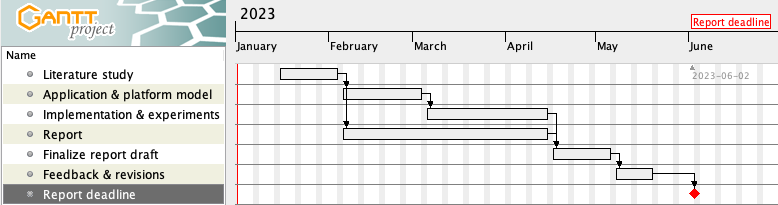
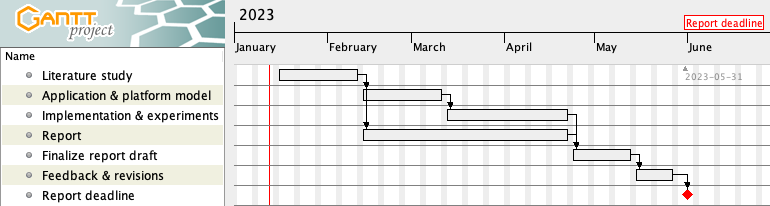
v 0.4

diff --git a/plan/plan.tex b/plan/plan.tex
@@ -23,7 +23,7 @@
 \usepackage{fancyhdr}
 \pagestyle{fancy}
 \fancyhf{}
-\fancyhead[L]{\emph{L. Karlsson; version 0.3}}
+\fancyhead[L]{\emph{L. Karlsson; version 0.4}}
 \fancyhead[R]{\emph{\leftmark}}
 \fancyfoot[C]{\thepage}
 
@@ -31,7 +31,7 @@
 
 \title{Thesis Project Plan\\SF250X}
 \author{Ludwig Karlsson\\ludwigka@kth.se}
-\date{2022-12-23}
+\date{2023-01-12}
 
 \begin{document}
 \maketitle
@@ -45,28 +45,28 @@ When designing or choosing a system (for example an MPSoC) for a particular appl
 This project is concerned with an application at Saab of DSE on a Xilinx MPSoC with CPU, GPU, and reconfigurable FPGA resources. The use case concerns a dynamic scenario where different processes with different priorities need to be scheduled and run on the chip. The processes can run on some combination of the chip's resources (eg. a certain process may be able to run on a CPU core or on the FPGA), and the ultimate goal is to determine a way to schedule processes on the available resources including possible reconfigurations of the FPGA that results in performance that is as close to optimal as possible.
 
 \subsection{Mathematical/Numerical Aspects}
-Finding the optimal solution to the design-space problem is an NP-complete problem. Historically, computational DSE has been limited by computational resources, and approaches have required limiting assumptions or have been largely heuristical. These methods tend to give solutions that are good but not optimal, and they can sometimes be improved considerably. Kathrin Rosvall and Rodolfo Jordão have as part of Ingo Sander's research group showcased an approach that based on a discrete model of the system and computational problem utilizes Constraint Programming (CP) and a combination of heuristics and search that limits the design space without removing any feasible solutions. This makes it possible to obtain a feasible solution fairly quickly, and then eventually prove optimality if the problem is small enough [2]. This project aims to build on these methods by extending the IDeSyDe tool [3] within the ForSyDe framework [4]. The key focus will be to investigate Saab's problem with the current CP approach as well as with other solvers and meta-heuristics in order to see what method works best for this problem.
+Finding the optimal solution to the design-space problem is an NP-complete problem. Historically, computational DSE has been limited by computational resources, and approaches have required limiting assumptions or have been largely heuristical. These methods tend to give solutions that are good but not optimal, and they can sometimes be improved considerably. Kathrin Rosvall and Rodolfo Jordão have as part of Ingo Sander's research group showcased an approach that based on a discrete model of the system and computational problem utilizes Constraint Programming (CP) and a combination of heuristics and search that limits the design space without removing any feasible solutions. This makes it possible to obtain a feasible solution fairly quickly, and then eventually prove optimality if the problem is small enough [2]. This project aims to build on these methods by extending the IDeSyDe tool [3] within the ForSyDe framework [4]. The key focus will be to investigate Saab's problem with the current CP approach as well as with some other solver in order to see what method works best for this problem.
 
-The full scope of adapting the IDeSyDe tool to Saab's application, and answering all of Saab's questions in the general dynamic load case scenario is an extremely complex problem and outside of the reasonable scope of this project. In order to obtain a more reasonable problem formulation, this project will instead restrict the problem formulation to some static load case scenario and aim to adapt the current tool-set to the problem when possible.
+The full scope of adapting the IDeSyDe tool to Saab's application, and answering all of Saab's questions in the general dynamic load case scenario is an extremely complex problem and outside of the reasonable scope of this project. In order to obtain a more reasonable problem formulation, this project will instead restrict the problem formulation to some static load case scenario and aim to adapt the current tool-set to the problem when possible. Numerical aspects of the method will be investigated in particular, and how numerical considerations compare between the methods.
 \newline\newline
 \noindent\textbf{Research question}:
 
-To what extent can the IDeSyDe tool and different optimisation methods be used to answer Saab's questions regarding task mapping and scheduling? Is the abstraction level of IDeSyDe appropriate to the problem? What parts of the system are best suited for this approach? What tools are most appropriate for the problem or different part of the problem, and how do they compare?
+To what extent can the IDeSyDe tool and different optimisation methods be used to answer Saab's questions regarding task mapping and scheduling? Is the abstraction level of IDeSyDe appropriate to the problem and what parts of the system are best suited for this approach? What tools are most appropriate for the problem or different part of the problem: how do they compare and what numerical considerations are relevant?
 
 \section{Initial Plan}
 The goals for the project is to:
 \begin{enumerate}
-	\item[G1] Find an interesting static load case scenario. Research and formulate good models for Saab's hardware and application. Figure out how to measure/quantify the performance boost.
+	\item[G1] Find an interesting static load case scenario. Research and formulate good models for Saab's hardware and application. Figure out how to measure/quantify the performance boost. Research relevant numerical aspects.
 	\item[G2] Extend IDeSyDe with models and meta-heuristics.
 	\item[G3] Investigate Saab's questions within the limitations of the static load case scenario and the model.
 	\begin{enumerate}
-		\item Look at the current CP approach and some other approach(es).
-		\item Investigate trade-offs between performance (of the solution) and computational cost for different solvers and heuristics.
+		\item Look at the current CP approach and some other approach.
+		\item Investigate trade-offs between performance (of the solution) and computational cost for different solvers and heuristics, as well as numerical considerations.
 		\item Look at ways to extend/modify the model to reduce computational cost and/or improve performance.
 	\end{enumerate}
 \end{enumerate}
 
-\noindent Figure \ref{timeplan} shows a preliminary time plan for the project. [WIP] The report will be worked on in parallel with the other project work for the duration of the project.
+\noindent Figure \ref{timeplan} shows a preliminary time plan for the project. The report will be worked on in parallel with the other project work for the duration of the project.
 
 \begin{figure}[H]
 	\centering
